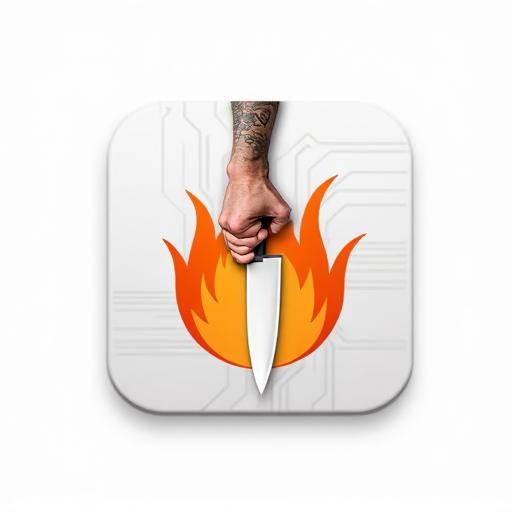
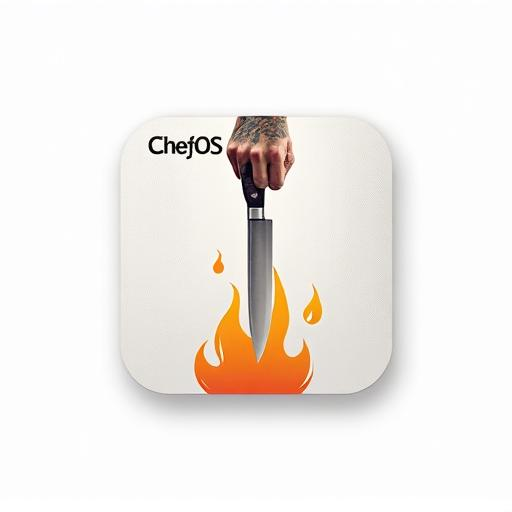
Changes

Changed region(s): [[0.1875, 0.1875, 0.8125, 0.8438], [0.7188, 0.25, 0.75, 0.2812]]

diff --git a/src/pages/PortalSelect.tsx b/src/pages/PortalSelect.tsx
@@ -1,7 +1,7 @@
 import { motion } from "framer-motion";
 import { ChefHat } from "lucide-react";
 import { useNavigate } from "react-router-dom";
-import chefOSWordmark from "@/assets/chefos-wordmark.png";
+import chefOSLogo from "@/assets/chefos-logo-new.png";
 
 const PortalSelect = () => {
   const navigate = useNavigate();
@@ -23,13 +23,17 @@ const PortalSelect = () => {
         >
           {/* Logo */}
           <motion.img
-            src={chefOSWordmark}
+            src={chefOSLogo}
             alt="ChefOS"
-            className="w-full max-w-md h-auto mx-auto mb-8 object-contain"
+            className="w-48 h-48 mx-auto mb-8 rounded-3xl shadow-2xl object-contain"
             initial={{ y: -20, opacity: 0 }}
             animate={{ y: 0, opacity: 1 }}
             transition={{ delay: 0.2, type: "spring", stiffness: 200 }}
           />
+
+          <h1 className="text-4xl md:text-5xl font-bold text-foreground mb-4">
+            Welcome to <span className="text-primary">ChefOS</span>
+          </h1>
 
           <p className="text-lg text-muted-foreground max-w-xl mx-auto mb-12">
             The complete kitchen operating system for professional chefs.
